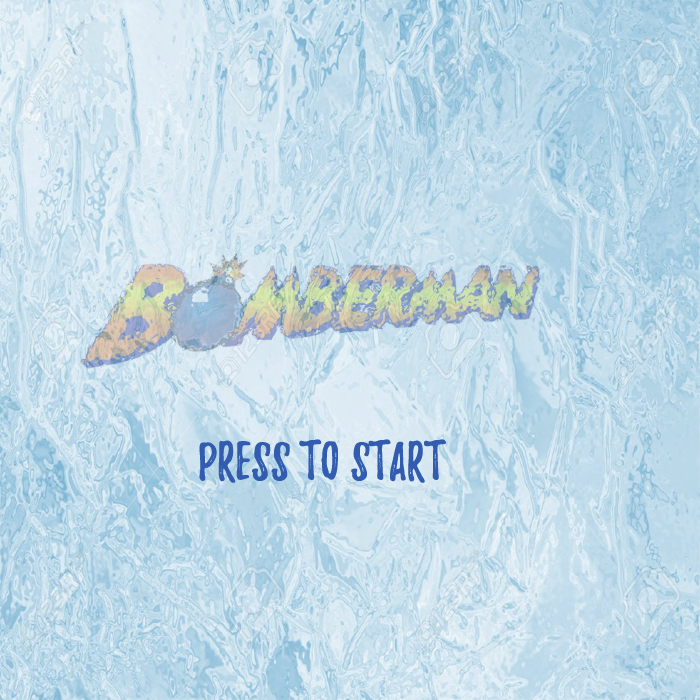
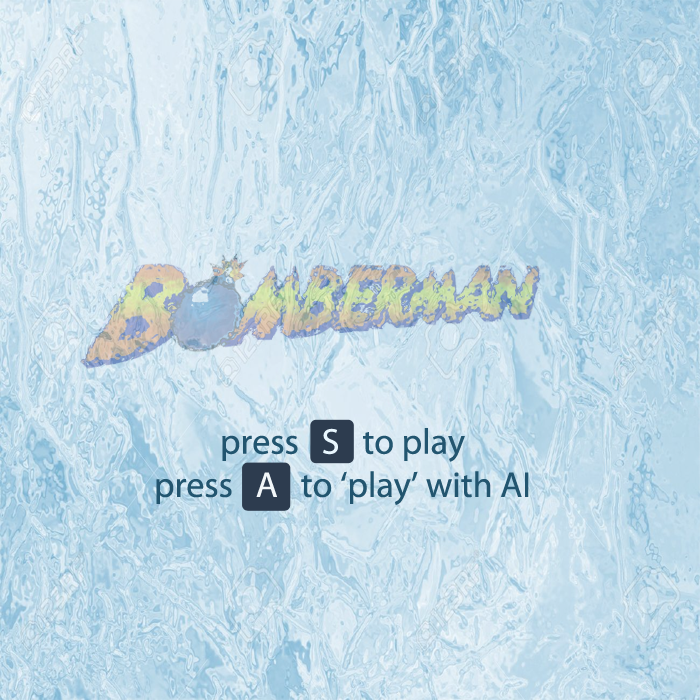
2.0

Changed region(s): [[0.21, 0.6, 0.78, 0.75]]

diff --git a/src/main/java/GamePanel.java b/src/main/java/GamePanel.java
@@ -21,9 +21,18 @@ public class GamePanel extends JPanel implements Runnable {
         i = 0;
         running = true;
         start = true;
-        level = new Level();
+        level = new Level(false);
         Resources.Sound.MENU.setLoop();
         Resources.Sound.MENU.start();
+        this.setFocusable(true);
+        this.requestFocusInWindow();
+        this.setPreferredSize(new Dimension(Resources.SCREEN_W, Resources.SCREEN_H));
+        this.addKeyListener(new GameController(this, level.getPlayer(), level));
+        this.addMouseListener(new GameClick(level));
+    }
+
+    public void init(boolean b) {
+        level = new Level(b);
         this.setFocusable(true);
         this.requestFocusInWindow();
         this.setPreferredSize(new Dimension(Resources.SCREEN_W, Resources.SCREEN_H));
@@ -108,8 +117,14 @@ class GameController implements KeyListener {
     @Override
     public void keyPressed(KeyEvent e) {
         if (game_panel.isStart()) {
-            game_panel.setStart(false);
-            level.setPause(false);
+            if (e.getKeyCode() == KeyEvent.VK_S) {
+                game_panel.init(false);
+                game_panel.setStart(false);
+            }
+            if (e.getKeyCode() == KeyEvent.VK_A) {
+                game_panel.init(true);
+                game_panel.setStart(false);
+            }
         } else {
             if (e.getKeyCode() == KeyEvent.VK_A) player.leftPressed();
             if (e.getKeyCode() == KeyEvent.VK_S) player.downPressed();

diff --git a/src/main/java/Player.java b/src/main/java/Player.java
@@ -15,6 +15,7 @@ public class Player extends Character {
     int life;
     int bombNumber;
     int power;
+    String name = "";
 
     public int getY() {return (int) ((location_y + 55) / Resources.BLOCK_SIZE);}
     public Room getRoom() {return room;}
@@ -47,6 +48,10 @@ public class Player extends Character {
         this.location_y = 5 * Resources.BLOCK_SIZE;
         this.x_room = 6;
         this.y_room = 5;
+    }
+
+    public void setName(String n) {
+        this.name = n;
     }
 
     public void putBomb() {
@@ -205,6 +210,7 @@ public class Player extends Character {
         } else {
             if (immortal_timer > 0 && frame % 6 > 2) return;
             if (frame >= 12) frame = 0;
+            g.drawString(name, location_x ,location_y - 2);
             drawLeg(g);
             if (flip)   g.drawImage(this.animation[frame / 3] ,location_x + width ,location_y ,-width ,height ,null);
             else        g.drawImage(this.animation[frame / 3] ,location_x ,location_y ,width ,height ,null);

diff --git a/src/main/java/Level.java b/src/main/java/Level.java
@@ -23,15 +23,17 @@ public class Level extends Object {
     /**
      * khoi tao level, chon rooms[4][2] la phong khoi dau.
      */
-    public Level() {
-        pause = true;
+    public Level(boolean b) {
+        pause = false;
         i = 0;
         level = 1;
         rooms = new Room[LEVEL_SIZE][LEVEL_SIZE];
         rooms[4][2] = new Room(Room.START, level);
 
         buildLevel();
-        player = new Bot();
+        if (b) player = new Bot();
+        else player = new Player();
+
         player.Init(rooms[4][2],Resources.Animation.TEEMO.getAnimation(),
                 Resources.Animation.RUN.getAnimation(),
                 Resources.Animation.TEEMODEAD.getAnimation());

diff --git a/src/main/java/Bot.java b/src/main/java/Bot.java
@@ -7,6 +7,7 @@ public class Bot extends Player {
         super();
         enemy = new int[13][13];
         bomb = new int[13][13];
+        name = "Bot";
     }
 
     @Override
